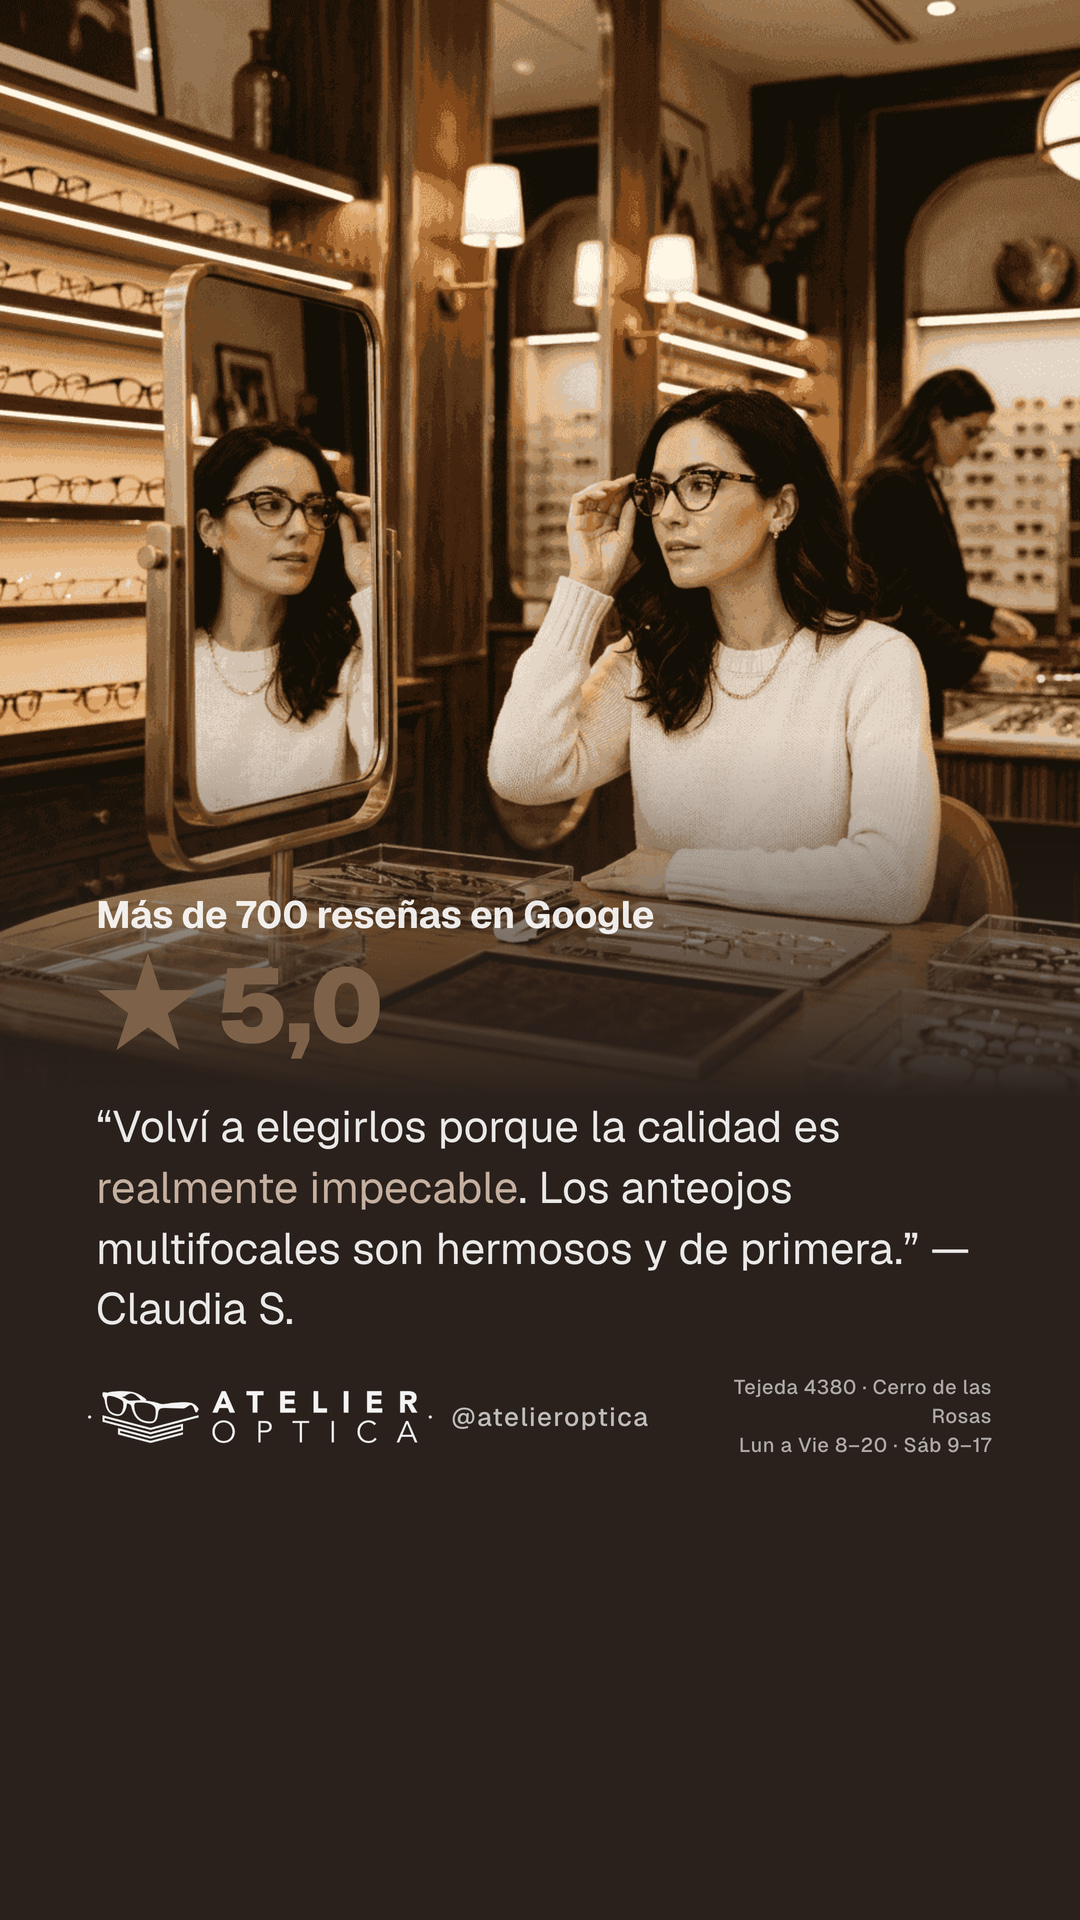
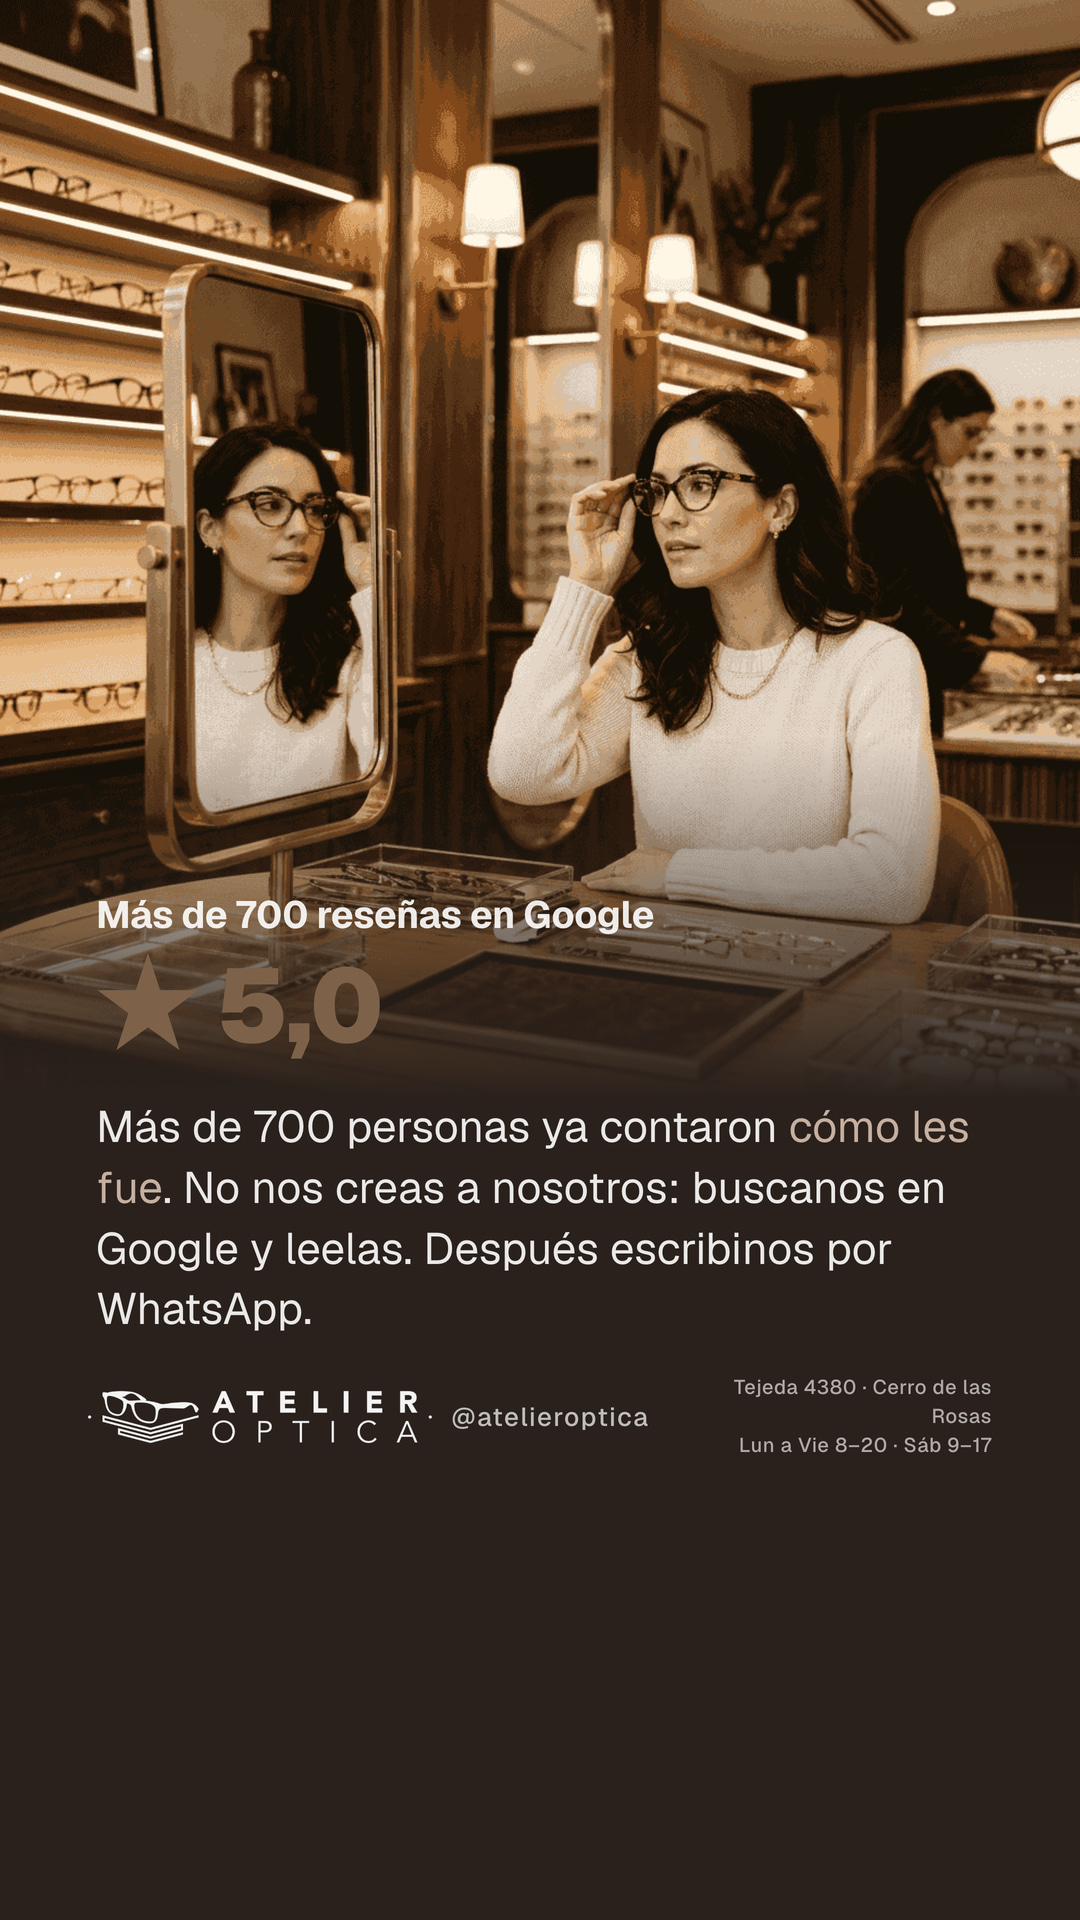
reseñas en anuncios pagos: solo el número agregado, nunca la cita de un cliente
Regla de Ishtar del 31/8: los mensajes de clientes no se suben a Meta para
campañas (quedan para stories orgánicas). Las 4 placas de calificación y el
body del anuncio dejan la cita de Claudia S. y pasan al formato del dato:
"más de 700 reseñas ★ 5,0" con la invitación a leerlas en Google.

Changed region(s): [[0.0917, 0.5625, 0.8861, 0.6875]]

diff --git a/scripts/ads/renovar_remarketing_mensajes.js b/scripts/ads/renovar_remarketing_mensajes.js
@@ -49,7 +49,10 @@ const FAMILIAS = [
       story916: jpeg('ad-l2-calificacion-story'),
       apaisado: jpeg('ad-l2-calificacion-apaisado'),
     },
-    body: '★ 5,0 con más de 700 reseñas en Google. “Volví a elegirlos porque la calidad es realmente impecable. Los anteojos multifocales son hermosos y de primera.” — Claudia S. Escribinos por WhatsApp y comprobalo.',
+    // Regla 31/8: en anuncios pagos, reseñas SOLO como dato agregado — nunca
+    // la cita textual ni el nombre de un cliente (eso queda para stories
+    // orgánicas). El número invita a LEERLAS en Google, no las reproduce.
+    body: '★ 5,0 con más de 700 reseñas en Google. No nos creas a nosotros: buscá Atelier Óptica en Google y leé lo que cuentan los que ya compraron. Después escribinos por WhatsApp.',
     title: '★ 5,0 en Google — más de 700 reseñas',
   },
   {
